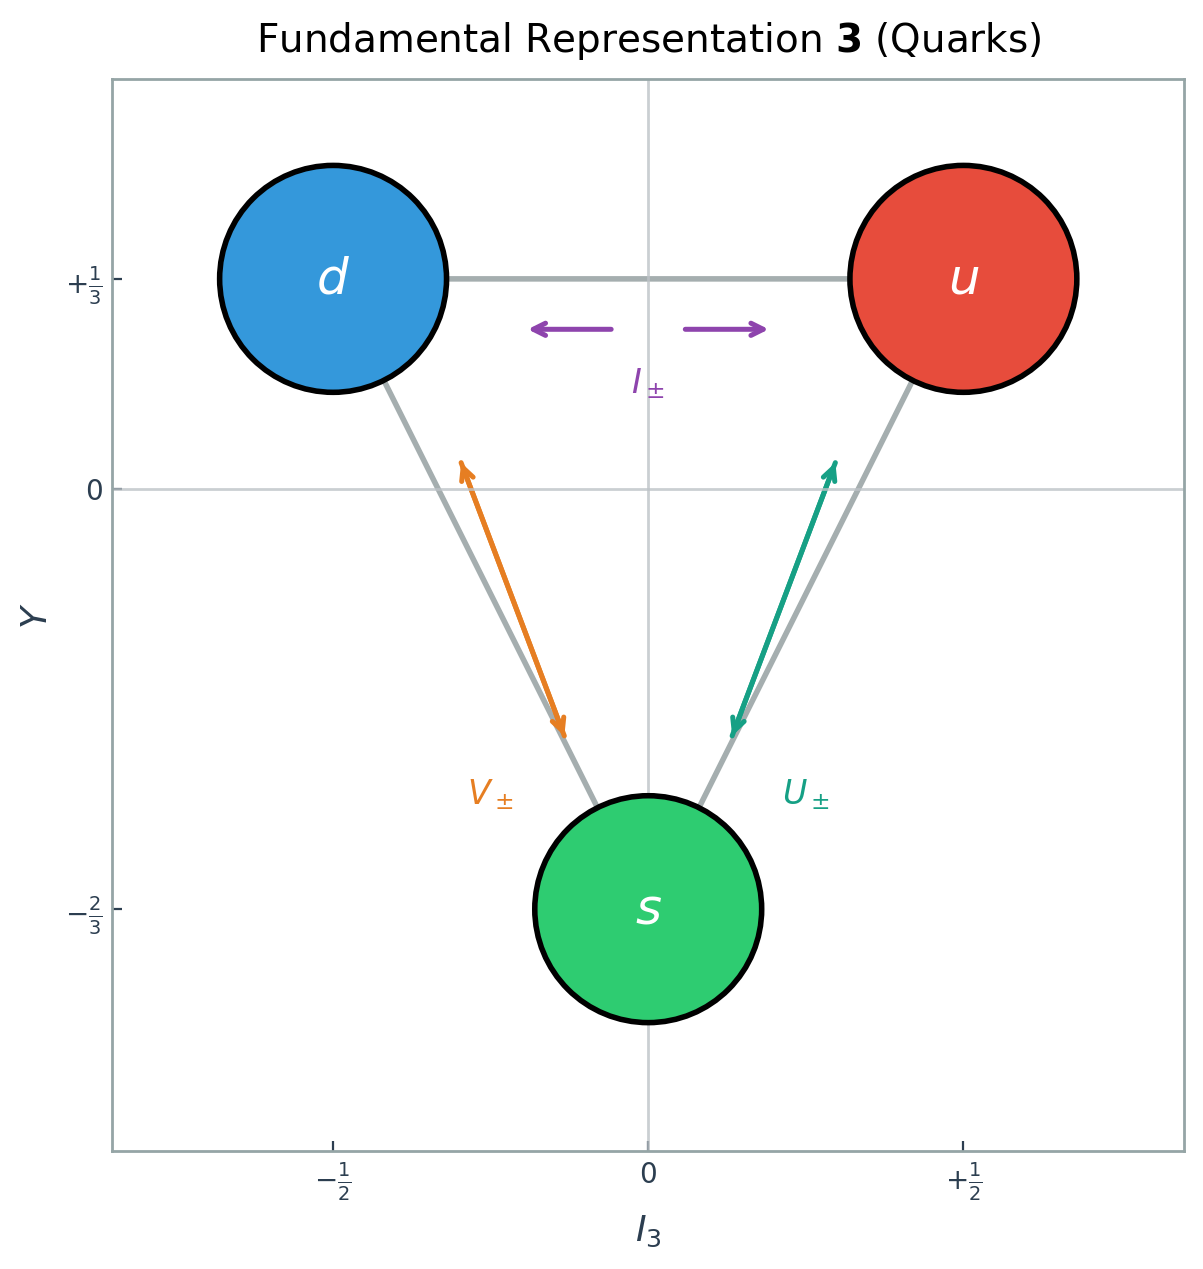
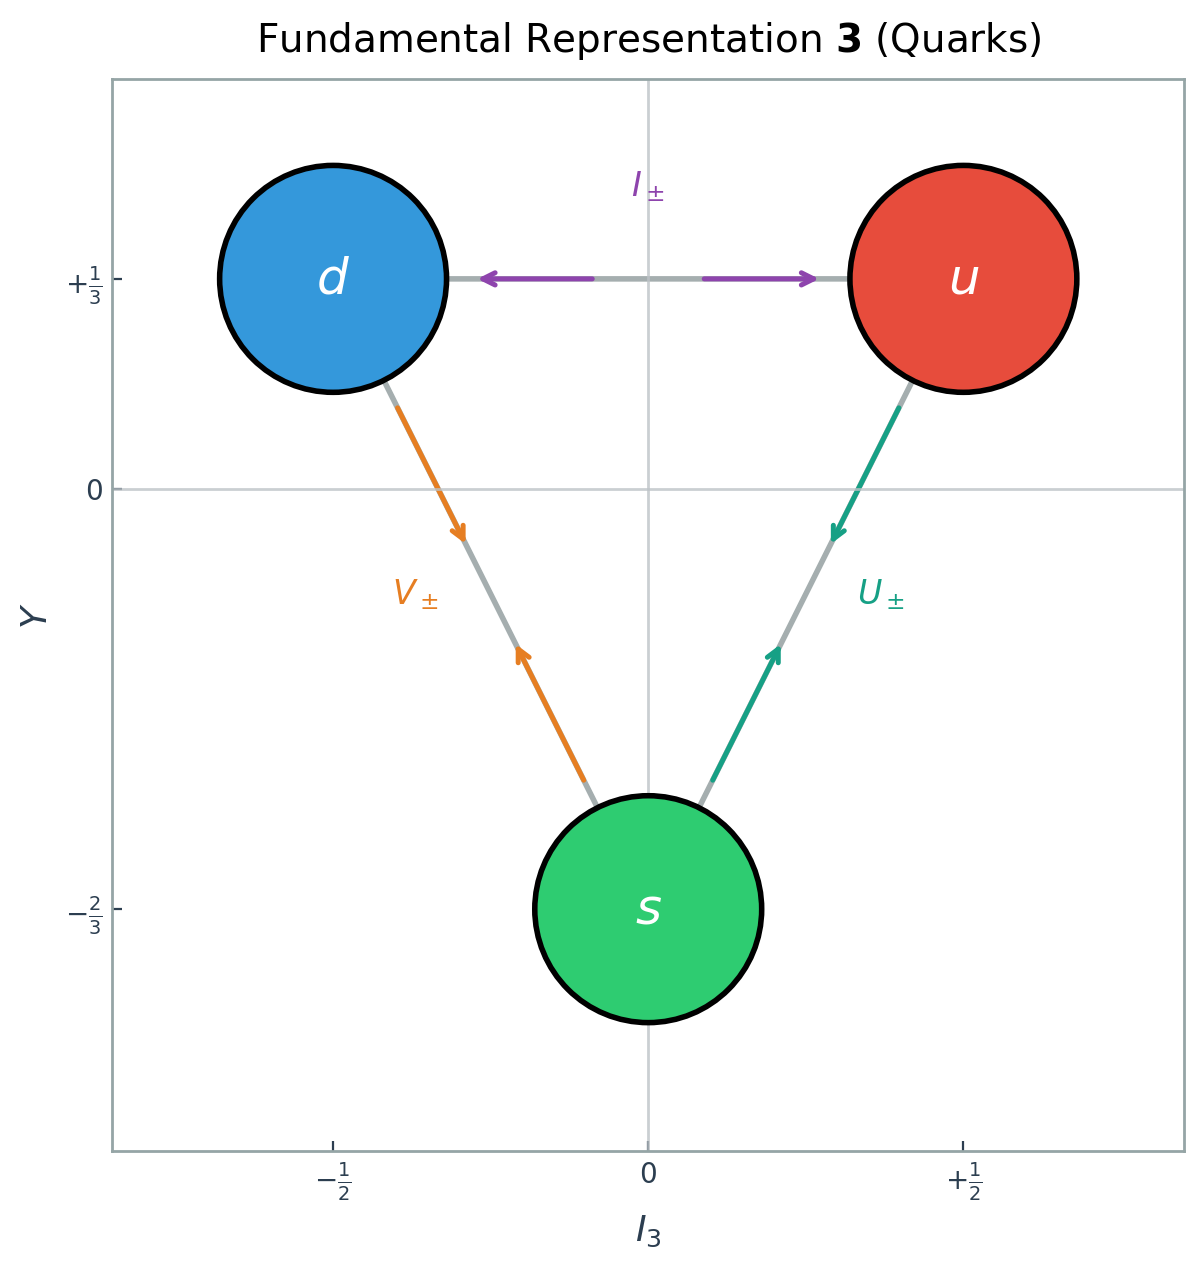
Fix SU(3) fundamental diagram: correct diagonal arrow angles, labels centered between arrows

diff --git a/utils/generate_su3_fundamental.py b/utils/generate_su3_fundamental.py
@@ -18,7 +18,6 @@ def draw_fundamental_triplet():
     """Draw quark triplet weight diagram."""
     setup_style()
     
-    # Figure with frame
     fig, ax = plt.subplots(figsize=(7, 6.5))
     
     # Positions
@@ -42,40 +41,72 @@ def draw_fundamental_triplet():
     
     # ===== LADDER OPERATORS =====
     
-    # I+/- : horizontal arrows - label below like original
-    arrow_y = 1/3 - 0.08
-    ax.annotate('', xy=(0.20, arrow_y), xytext=(0.05, arrow_y),
+    # I+/- : horizontal arrows between u and d
+    arrow_y = 1/3
+    # Right arrow (I+)
+    ax.annotate('', xy=(0.28, arrow_y), xytext=(0.08, arrow_y),
                arrowprops=dict(arrowstyle='->', color='#8E44AD', lw=1.8), zorder=2)
-    ax.annotate('', xy=(-0.20, arrow_y), xytext=(-0.05, arrow_y),
+    # Left arrow (I-)
+    ax.annotate('', xy=(-0.28, arrow_y), xytext=(-0.08, arrow_y),
                arrowprops=dict(arrowstyle='->', color='#8E44AD', lw=1.8), zorder=2)
-    ax.text(0, arrow_y - 0.10, r'$I_\pm$', fontsize=12, ha='center', color='#8E44AD')
+    # Label in middle
+    ax.text(0, arrow_y + 0.12, r'$I_\pm$', fontsize=12, ha='center', 
+           va='bottom', color='#8E44AD')
     
-    # V+/- : left side - arrows with label below them (like I+/- style)
-    # Position between d and s, label below the arrows
-    vx = -0.25
-    vy_top = 0.05
-    vy_bot = -0.40
-    # Arrow down-right
-    ax.annotate('', xy=(vx + 0.12, vy_bot), xytext=(vx - 0.05, vy_top),
-               arrowprops=dict(arrowstyle='->', color='#E67E22', lw=1.8), zorder=2)
-    # Arrow up-left
-    ax.annotate('', xy=(vx - 0.05, vy_top), xytext=(vx + 0.12, vy_bot),
-               arrowprops=dict(arrowstyle='->', color='#E67E22', lw=1.8), zorder=2)
-    # Label below
-    ax.text(vx, vy_bot - 0.10, r'$V_\pm$', fontsize=12, ha='center', color='#E67E22')
+    # V+/- : diagonal arrows between d and s (left side)
+    # Direction: from d (-0.5, 1/3) to s (0, -2/3)
+    # Vector: (0.5, -1)
+    # Unit vector normalized
+    vx, vy = 0.5, -1
+    v_len = np.sqrt(vx**2 + vy**2)
+    ux, uy = vx/v_len, vy/v_len
     
-    # U+/- : right side - arrows with label below them (like I+/- style)
-    ux = 0.25
-    uy_top = 0.05
-    uy_bot = -0.40
-    # Arrow down-left
-    ax.annotate('', xy=(ux - 0.12, uy_bot), xytext=(ux + 0.05, uy_top),
+    # Start from d, go toward s (but stop before reaching)
+    d_start = np.array([-0.5 + 0.22*ux, 1/3 + 0.22*uy])
+    s_end = np.array([0 - 0.22*ux, -2/3 - 0.22*uy])
+    mid = (d_start + s_end) / 2
+    
+    # Arrow from d toward s
+    ax.annotate('', xy=(mid[0] - 0.08*ux, mid[1] - 0.08*uy), 
+               xytext=(d_start[0], d_start[1]),
+               arrowprops=dict(arrowstyle='->', color='#E67E22', lw=1.8), zorder=2)
+    # Arrow from s toward d
+    ax.annotate('', xy=(mid[0] + 0.08*ux, mid[1] + 0.08*uy), 
+               xytext=(s_end[0], s_end[1]),
+               arrowprops=dict(arrowstyle='->', color='#E67E22', lw=1.8), zorder=2)
+    # Label in middle
+    # Offset label slightly to the left of the line
+    ax.text(mid[0] - 0.12, mid[1], r'$V_\pm$', fontsize=12, ha='center', 
+           va='center', color='#E67E22',
+           bbox=dict(boxstyle='round,pad=0.15', facecolor='white', 
+                    edgecolor='none', alpha=0.9))
+    
+    # U+/- : diagonal arrows between u and s (right side)
+    # Direction: from u (0.5, 1/3) to s (0, -2/3)
+    # Vector: (-0.5, -1)
+    vx, vy = -0.5, -1
+    v_len = np.sqrt(vx**2 + vy**2)
+    ux, uy = vx/v_len, vy/v_len
+    
+    # Start from u, go toward s
+    u_start = np.array([0.5 + 0.22*ux, 1/3 + 0.22*uy])
+    s_end = np.array([0 - 0.22*ux, -2/3 - 0.22*uy])
+    mid = (u_start + s_end) / 2
+    
+    # Arrow from u toward s
+    ax.annotate('', xy=(mid[0] - 0.08*ux, mid[1] - 0.08*uy), 
+               xytext=(u_start[0], u_start[1]),
                arrowprops=dict(arrowstyle='->', color='#16A085', lw=1.8), zorder=2)
-    # Arrow up-right
-    ax.annotate('', xy=(ux + 0.05, uy_top), xytext=(ux - 0.12, uy_bot),
+    # Arrow from s toward u
+    ax.annotate('', xy=(mid[0] + 0.08*ux, mid[1] + 0.08*uy), 
+               xytext=(s_end[0], s_end[1]),
                arrowprops=dict(arrowstyle='->', color='#16A085', lw=1.8), zorder=2)
-    # Label below
-    ax.text(ux, uy_bot - 0.10, r'$U_\pm$', fontsize=12, ha='center', color='#16A085')
+    # Label in middle
+    # Offset label slightly to the right of the line
+    ax.text(mid[0] + 0.12, mid[1], r'$U_\pm$', fontsize=12, ha='center', 
+           va='center', color='#16A085',
+           bbox=dict(boxstyle='round,pad=0.15', facecolor='white', 
+                    edgecolor='none', alpha=0.9))
     
     # ===== QUARK CIRCLES =====
     r = 0.18
@@ -121,7 +152,7 @@ def draw_fundamental_triplet():
     ax.set_title(r'Fundamental Representation $\mathbf{3}$ (Quarks)', 
                 fontsize=14, pad=10)
     
-    # Full frame - all spines visible
+    # Full frame
     for spine in ax.spines.values():
         spine.set_visible(True)
         spine.set_color('#95A5A6')
